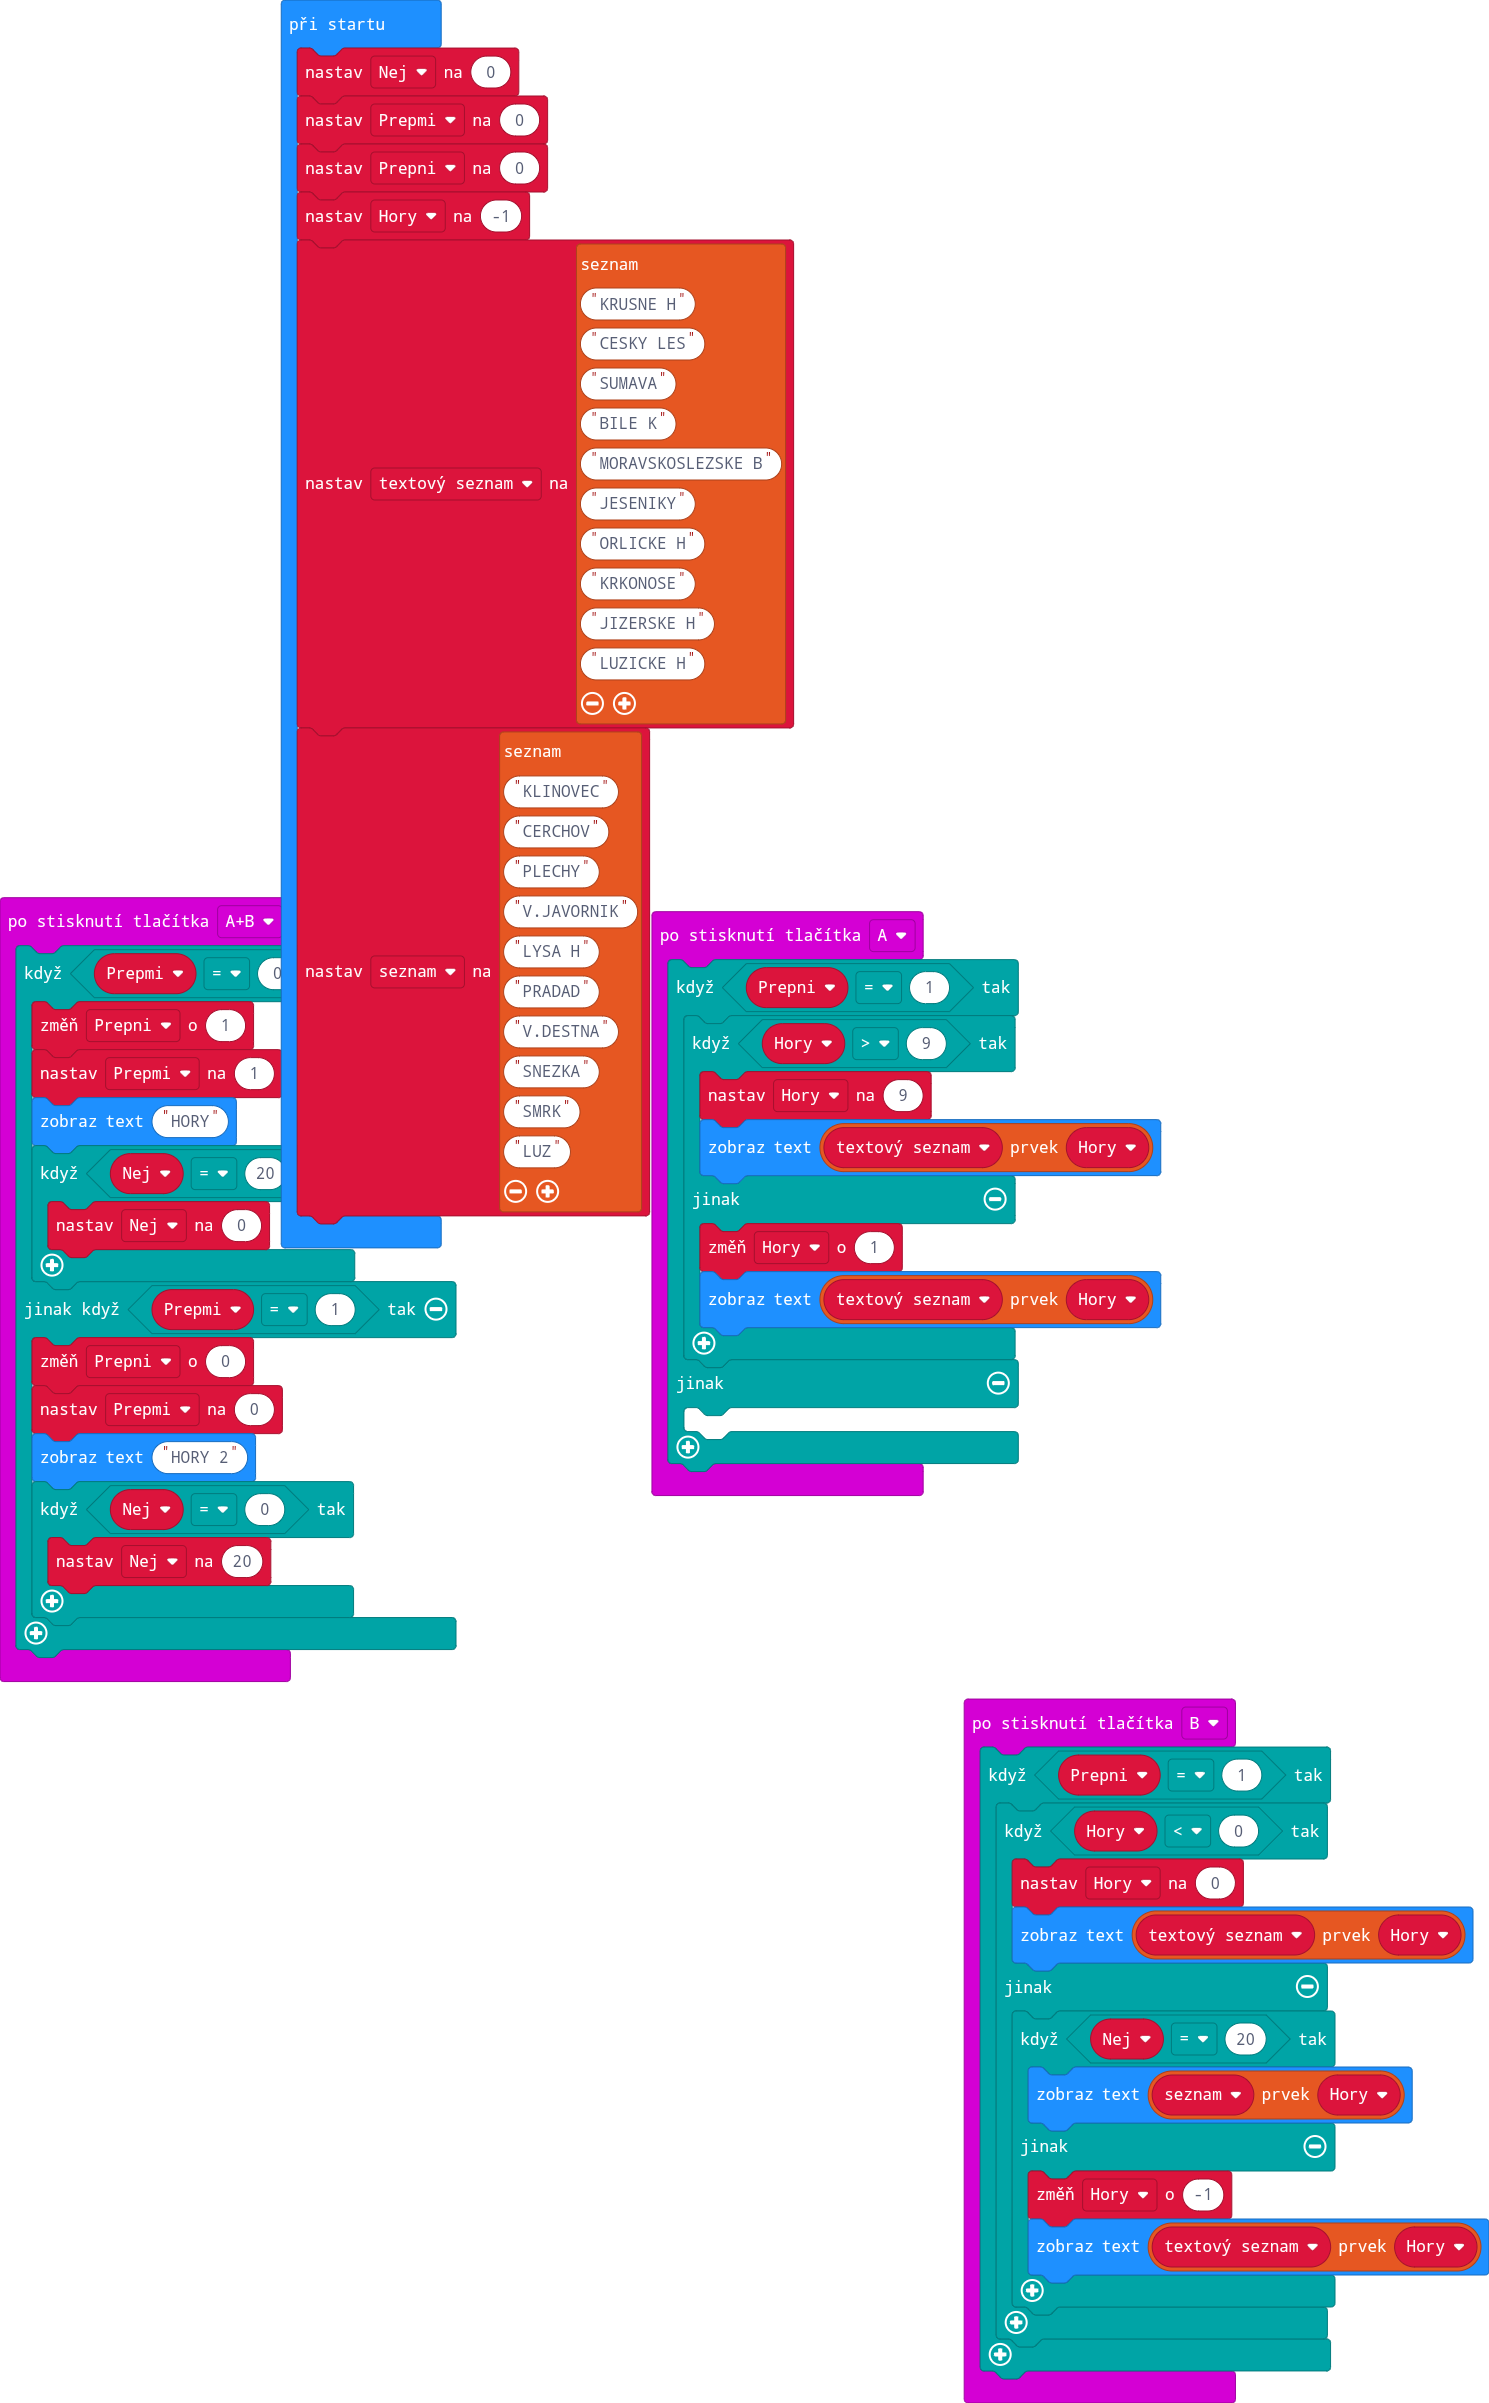
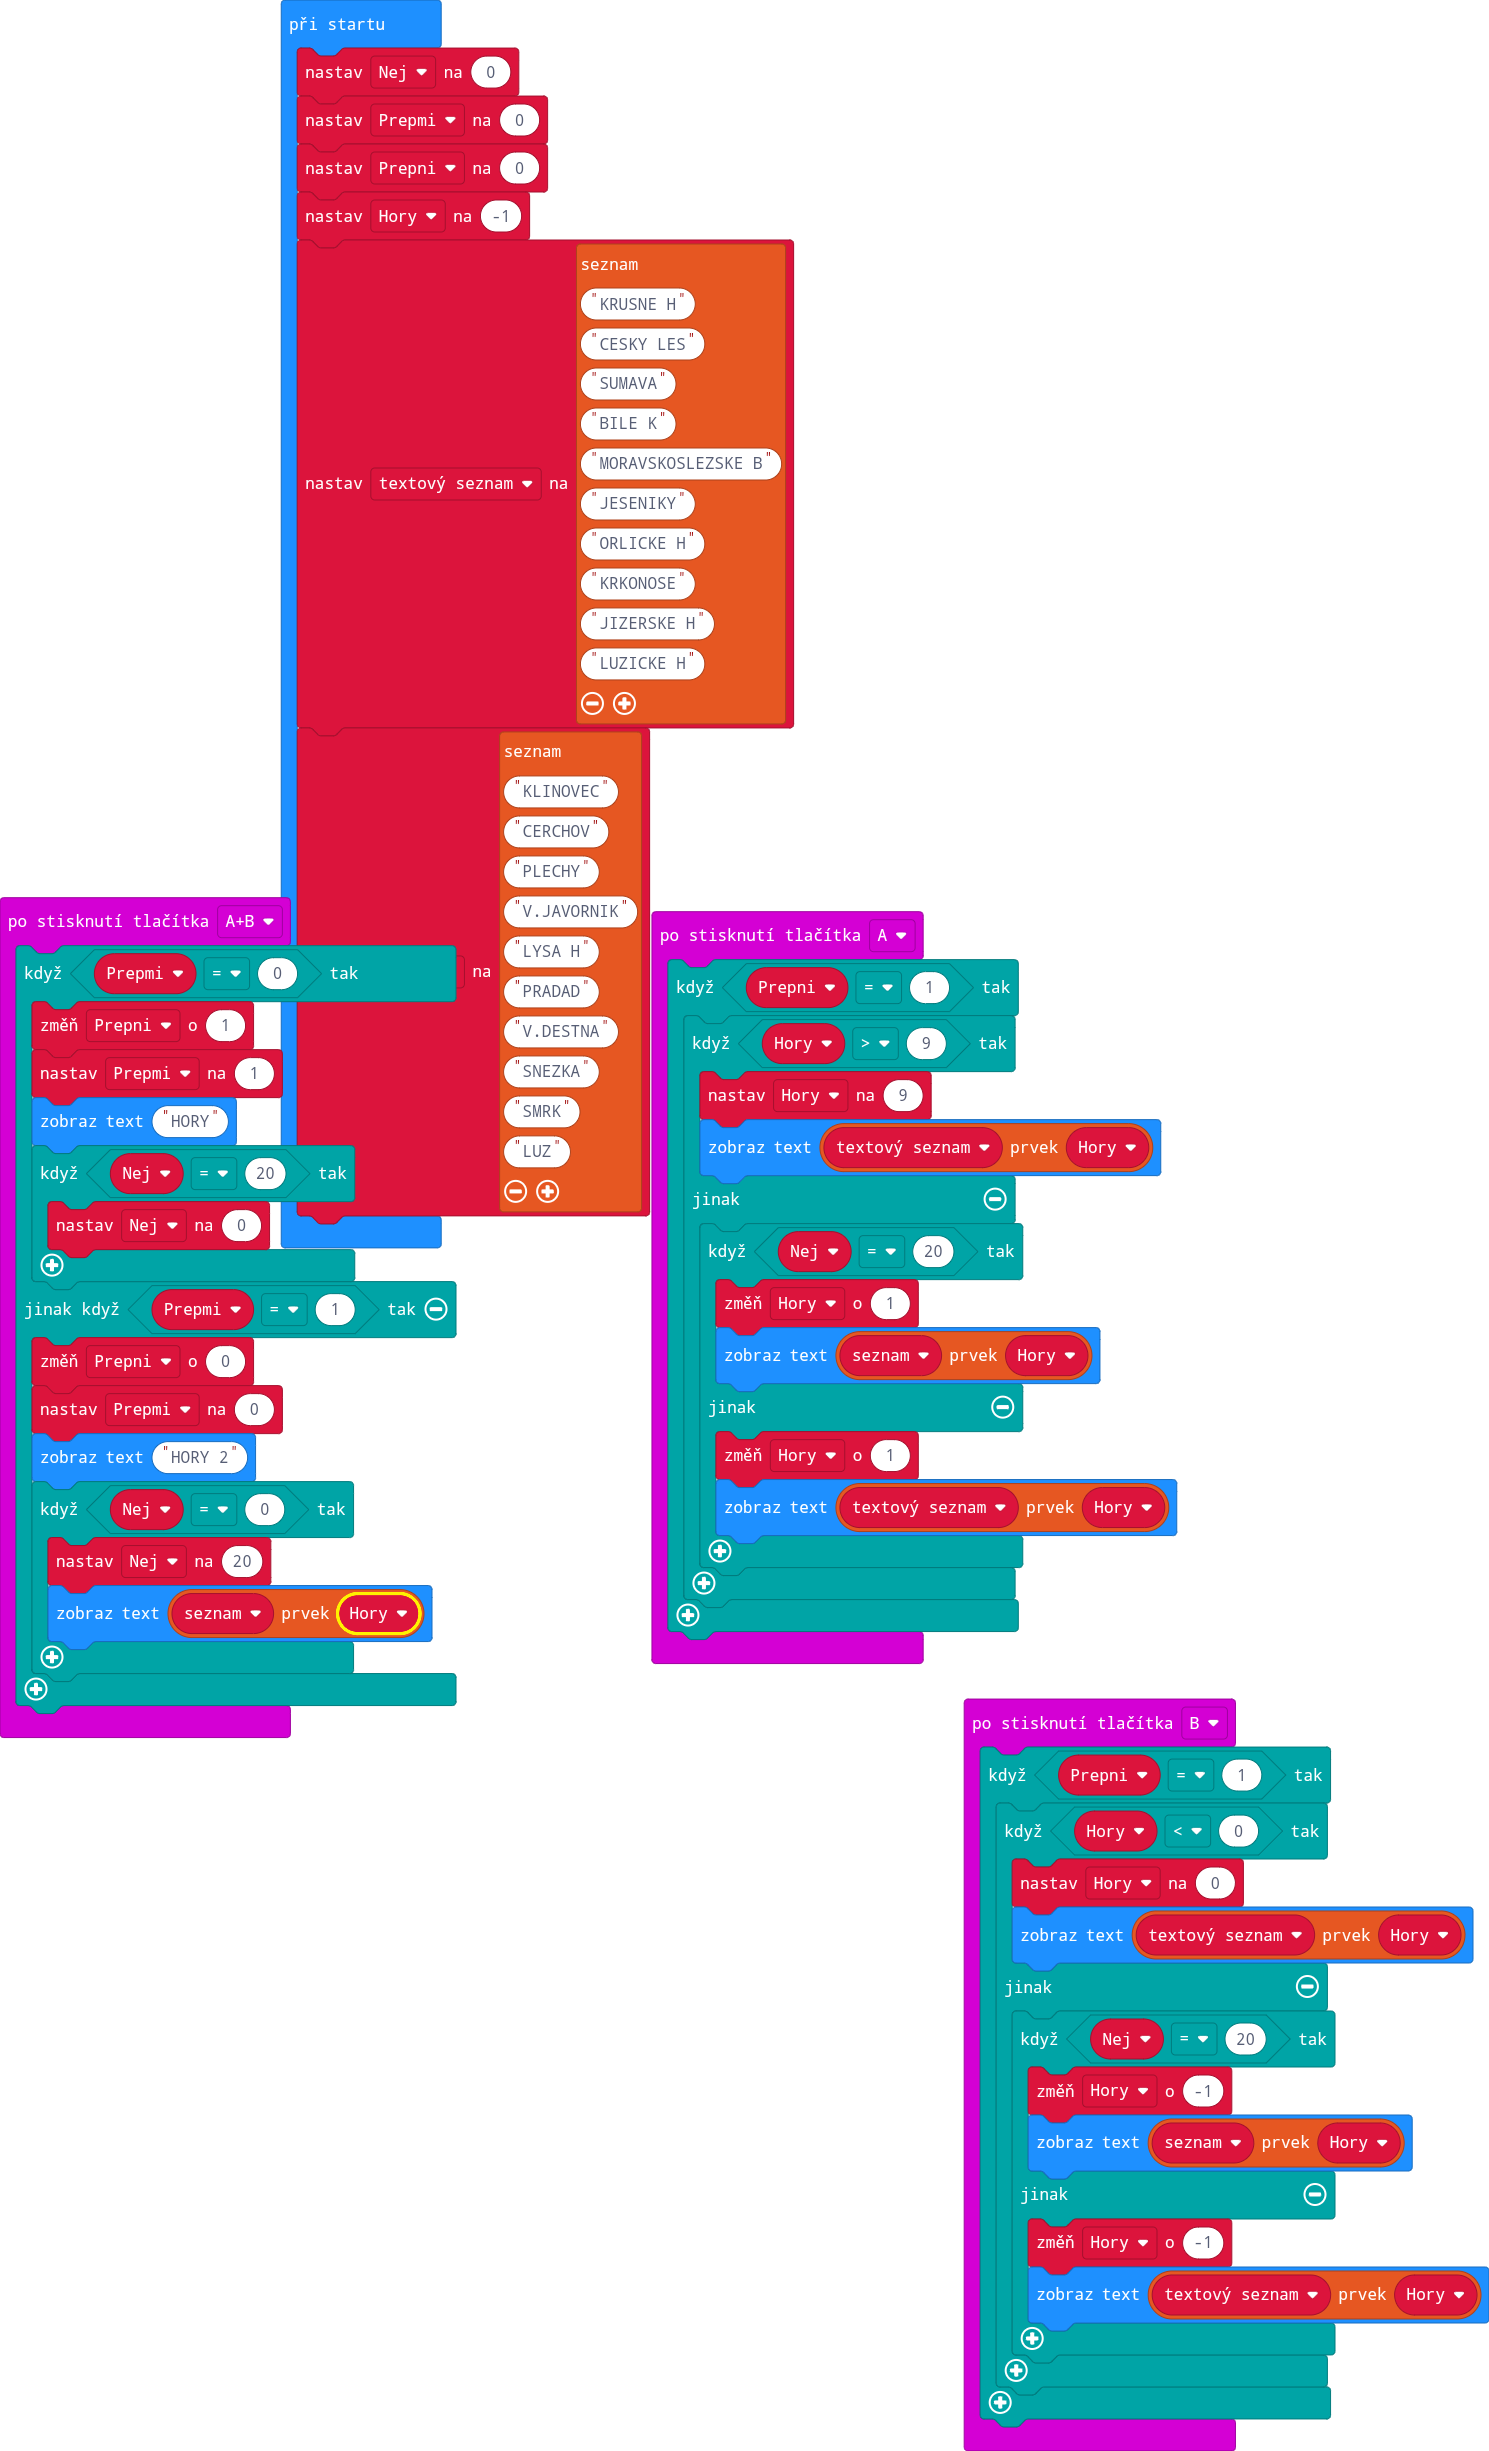
Aktualizovat main.blocks, main.ts

Changed region(s): [[0.0, 0.0936, 1.0, 0.9675], [0.1854, 0.0, 0.3707, 0.0936], [0.6488, 0.9675, 0.6797, 0.9988]]

diff --git a/main.ts b/main.ts
@@ -4,11 +4,14 @@ input.onButtonPressed(Button.A, function () {
             Hory = 9
             basic.showString("" + (textový_seznam[Hory]))
         } else {
-            Hory += 1
-            basic.showString("" + (textový_seznam[Hory]))
+            if (Nej == 20) {
+                Hory += 1
+                basic.showString("" + (seznam[Hory]))
+            } else {
+                Hory += 1
+                basic.showString("" + (textový_seznam[Hory]))
+            }
         }
-    } else {
-    	
     }
 })
 input.onButtonPressed(Button.AB, function () {
@@ -25,6 +28,7 @@ input.onButtonPressed(Button.AB, function () {
         basic.showString("HORY 2")
         if (Nej == 0) {
             Nej = 20
+            basic.showString("" + (seznam[Hory]))
         }
     }
 })
@@ -35,6 +39,7 @@ input.onButtonPressed(Button.B, function () {
             basic.showString("" + (textový_seznam[Hory]))
         } else {
             if (Nej == 20) {
+                Hory += -1
                 basic.showString("" + (seznam[Hory]))
             } else {
                 Hory += -1
